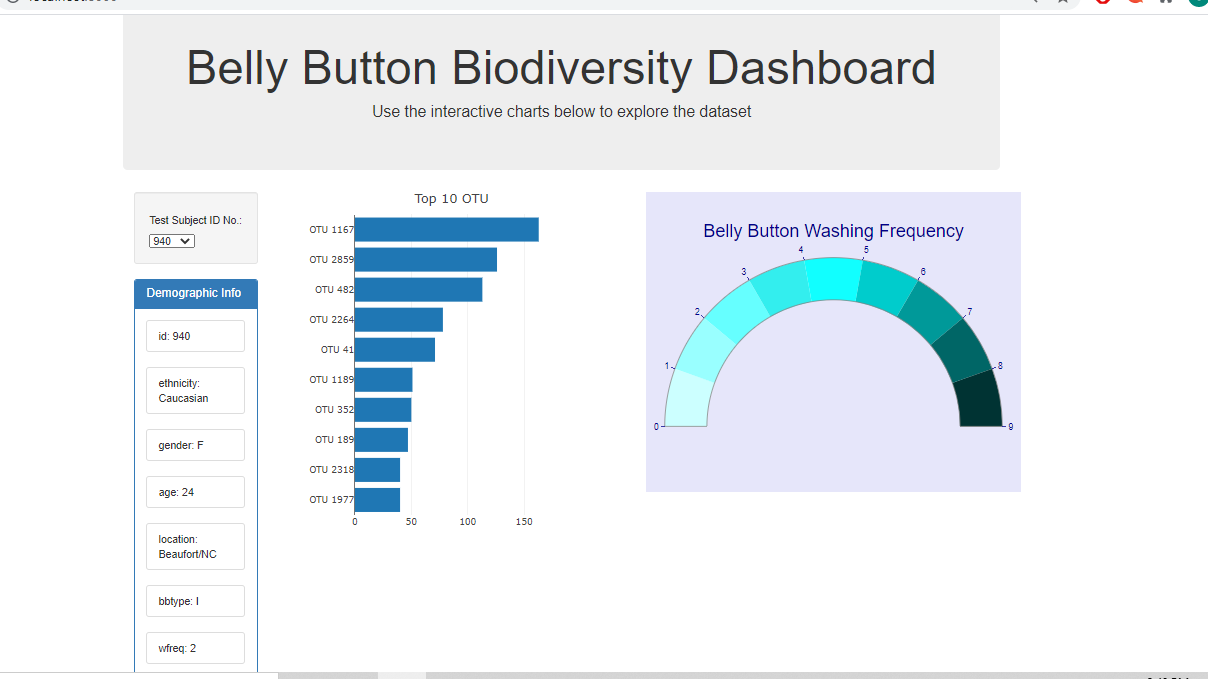
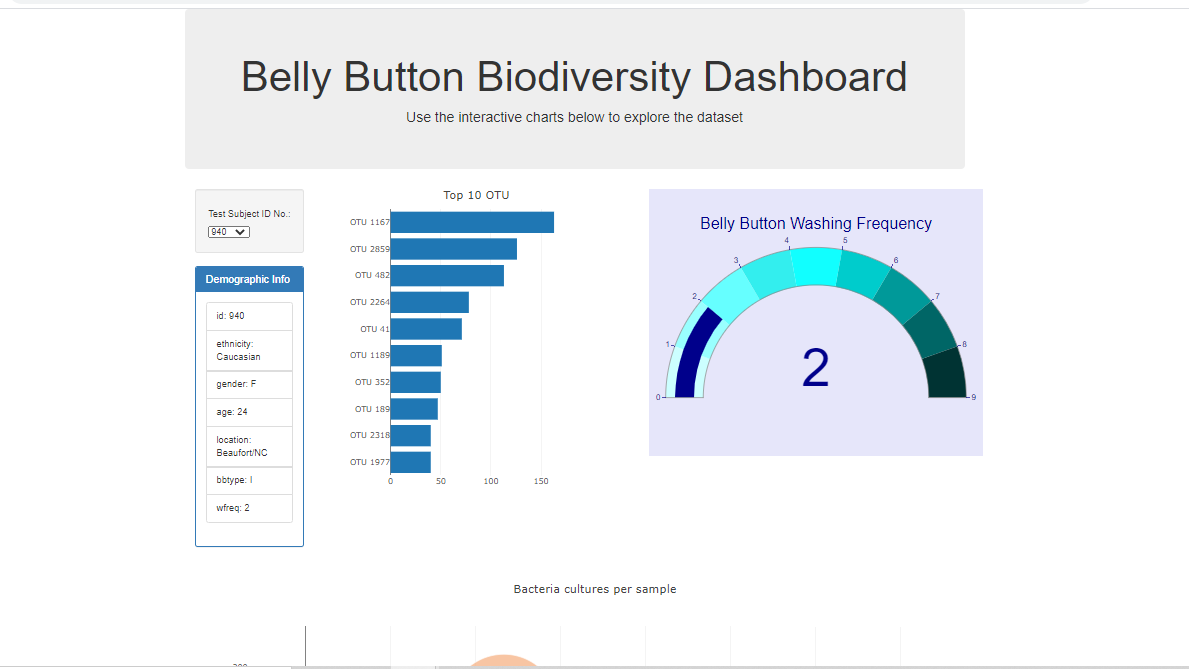
bg added

diff --git a/static/js/bonus.js b/static/js/bonus.js
@@ -23,7 +23,7 @@
      d3.json("data/samples.json").then((data => {
 
 
-         // ********** Dropdown Menu ************// 
+         // ********** Populate Dropdown Menu ************// 
 
          //  Iterate over each name in the names array to populate dropdowns with IDs
          data.names.forEach((name => {
@@ -67,7 +67,7 @@
 
          // get the wash frequency for gauge chart 
          var wfreq = metaData.wfreq;
-         //
+
          var newList = demographicInfo.append("ul");
          newList.attr("class", "list-group list-group-flush");
 
@@ -78,15 +78,16 @@
              var listItem = newList.append("li");
 
              // change the class attributes of the list item for styling
-             listItem.attr("class", "list-group-item ");
+             listItem.attr("class", "list-group-item display-text bg-transparent text-dark");
 
              // add the key value pair from the metadata to the demographics list
              listItem.text(`${key}: ${value}`);
 
          }); // end of forEach loop
 
-         var wfreqValues = data.metadata.map(d => d.wfreq)
-         console.log(`Washing Freq: ${wfreqValues}`)
+
+         var wfreqValue = data.metadata.map(d => d.wfreq)
+         console.log(`Washing Freq: ${wfreqValue}`)
 
          //********** BarChart **********//
 
@@ -171,7 +172,7 @@
          // bubble chart
          Plotly.newPlot("bubble", data1, layout);
 
-         //************* Gauge Chart ***********/
+         //********** Gauge Chart **********/
 
          // if wfreq has a null value, make it zero for calculating pointer later
          if (wfreq == null) {
@@ -221,6 +222,7 @@
              font: { color: "darkblue", family: "Arial" }
          };
          Plotly.newPlot('gauge', data2, layout);
+
      });
 
  };

diff --git a/index.html b/index.html
@@ -16,7 +16,7 @@
 
     <div class="container">
         <div class="row">
-            <div class="col-md-12 jumbotron text-center">
+            <div class="col-md-12 jumbotron text-center bg-color">
                 <h1>Belly Button Biodiversity Dashboard</h1>
                 <p>Use the interactive charts below to explore the dataset</p>
             </div>

diff --git a/static/css/style.css b/static/css/style.css
@@ -1,6 +1,3 @@
-.display-text {
-    font-size: 14px;
-}
-.svg-container{
-    margin-left: 50px;
+.bg-color {
+    background-image: url('../../Images/bio.jpg');
 }
